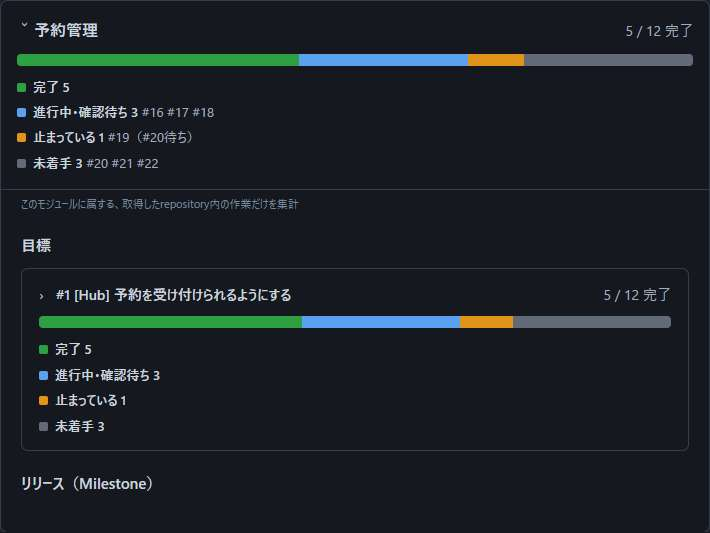
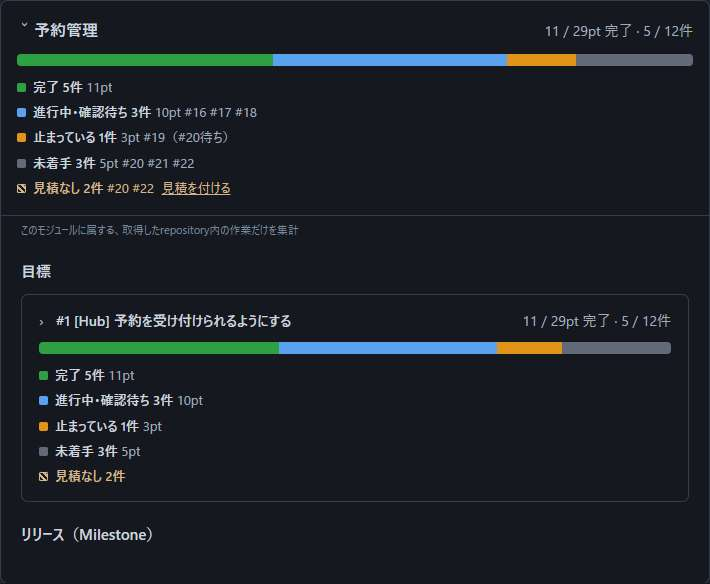
feat(board): 進み具合の帯をEstimateの長さにし、見積のない作業を知らせる
大きいIssueと小さいIssueを区別できるよう、帯の長さを状態ごとのEstimateの
合計にする。見積のない作業は帯に入れず、「見積なし」の行に件数を出し、
モジュールの行には番号と、Projectを開く「見積を付ける」のリンクを添える。

Refs #96

diff --git a/dist/github-planning.css b/dist/github-planning.css
@@ -41,3 +41,7 @@ details[open]>summary>.github-scope-name:before{transform:rotate(90deg)}
 .state-legend-row:before{content:'';display:inline-block;width:9px;height:9px;border-radius:2px;margin-right:7px}
 .state-legend-row>b{color:var(--ink);font-weight:650}
 .state-numbers{overflow-wrap:anywhere}
+.state-legend-row.missing{color:var(--amber)}
+.state-legend-row.missing:before{background:repeating-linear-gradient(45deg,var(--amber) 0 2px,transparent 2px 4px);box-shadow:inset 0 0 0 1px var(--amber)}
+.state-legend-row.missing>b{color:var(--amber)}
+.state-legend-row.missing a{color:inherit;text-decoration:underline;margin-left:4px}

diff --git a/docs/specification.md b/docs/specification.md
@@ -142,18 +142,23 @@ private browsingの終了やブラウザデータの削除で失われる。
   該当ラベルがなければ「モジュール未分類」、ラベル情報を持たない旧snapshotは「モジュール情報未取得」と表示する。
 - モジュールごとに、その範囲の目標・リリース・作業を表示する。
   目標やMilestoneが複数モジュールにまたがる場合は、そのモジュールの作業だけを集計する。
-- イテレーションタブのモジュールと目標の行には、配下の作業を状態で分けた帯と、完了した件数と全体の件数（例：「8 / 32 完了」）を表示する。
+- イテレーションタブのモジュールと目標の行には、配下の作業を状態で分けた帯と、完了した点数と全体の点数、完了した件数と全体の件数（例：「20.5 / 58.5pt 完了 · 8 / 32件」）を表示する。
   状態は、上の分け方を次の4つにまとめる。
   - 完了（緑）：完了・Closed。
   - 進行中・確認待ち（青）：作業中と確認待ち。要対応のうち、すべてのProjectのStatusがIn Progressの作業も含む。
   - 止まっている（橙）：開いた前提（blocked by）がある作業。作業中や確認待ちでも、開いた前提があれば止まっているとする。
   - 未着手（灰）：上のどれにも当てはまらない作業。
 
-  帯は件数で分け、Estimateの有無にかかわらず、すべての作業を数える。
+  帯は、状態ごとのEstimateの合計の長さで分ける。
+  件数は、Estimateの有無にかかわらず、すべての作業を数える。
+
+  Estimateが未設定かゼロの作業と、複数Projectに登録して見積の出典が決まらない作業は、帯に入れず、「見積なし N件」の行に件数を出す。
+  Estimateのある作業が一つもないときは、帯を空にし、点数を表示しない。
 
   モジュールの行には、完了以外の状態ごとに、件数と作業の番号を添える。
   止まっている作業には、待っている前提を「#44（#16待ち）」の形で添える。
-  番号は状態ごとに15件までとし、超える分は件数で示す。
+  「見積なし」の行には、作業の番号と、作業のProjectを開く「見積を付ける」のリンクを添える。
+  番号は行ごとに15件までとし、超える分は件数で示す。
   目標の行は、帯と件数だけを表示する。
 - リリースと期間の行の終了率は、取得したrepository内の見積設定済みの末端Issueを対象に、ClosedのEstimate合計を集計対象のEstimate合計で割り、整数に丸める。
   集計対象に未終了がある間は最大99%とする。
